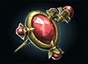
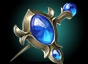
更新资源

diff --git a/CHANGELOG.md b/CHANGELOG.md
@@ -1,5 +1,7 @@
 # Change Log
 
+## [3.1.8] - 2023-04-21
+- 更新大展宏图更新的图标资源
 ## [3.1.7] - 2023-04-21
 - 更新大展宏图更新的api（暂时缺失新图标的资源）
 ## [3.1.6] - 2023-03-07
